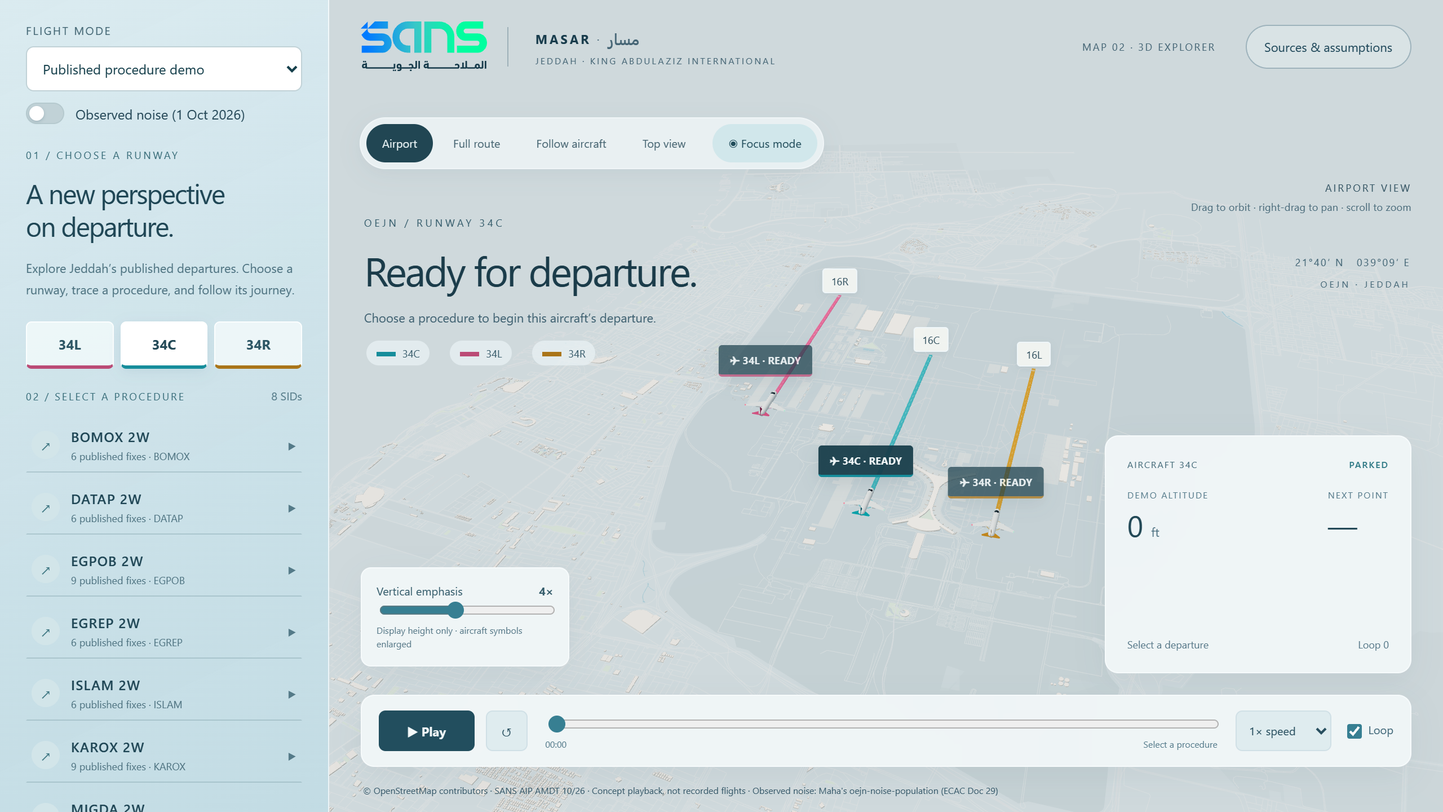
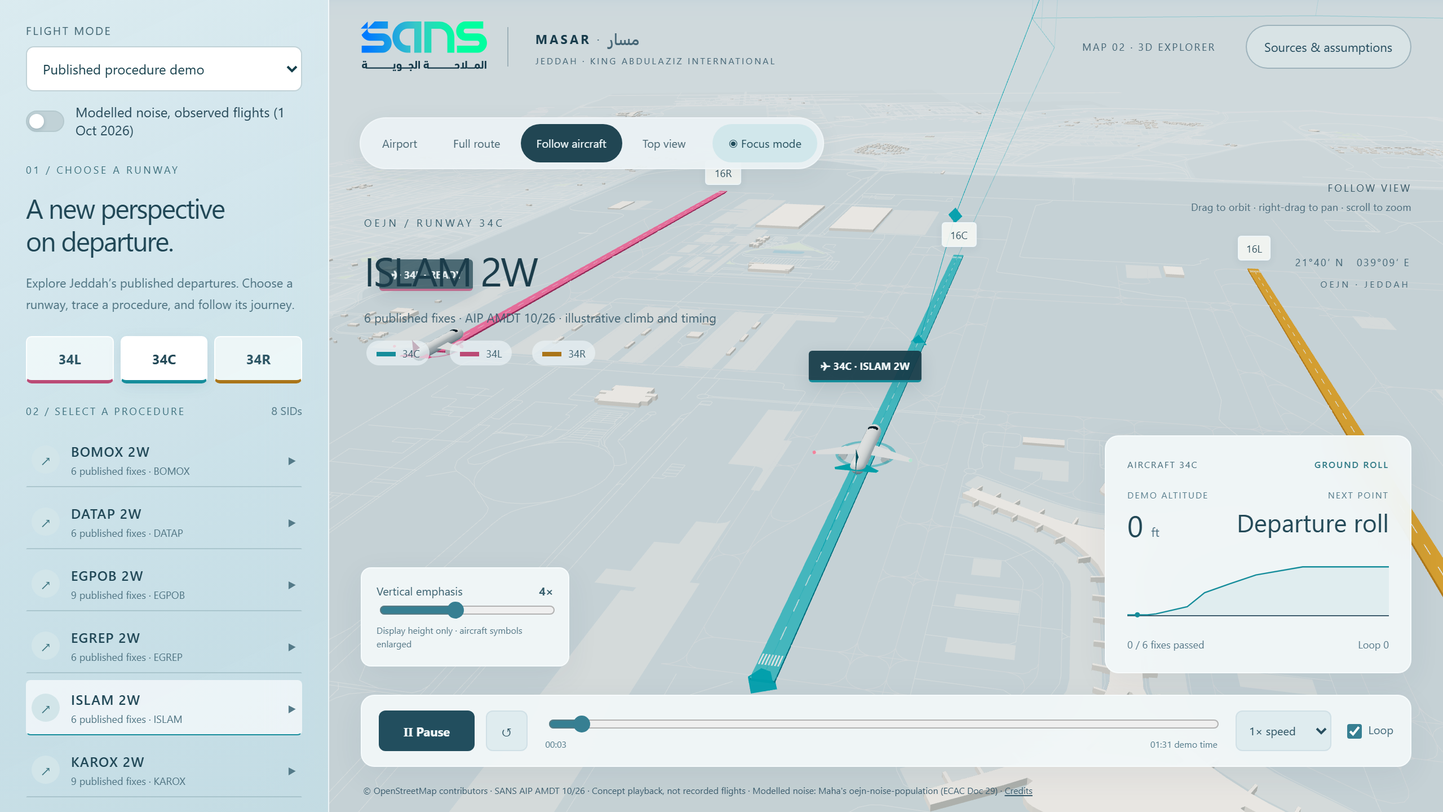
Map 2 demo cleanup: Scenario playback, public mode menu, QA fixes
Modes
- Recorded flights is offered only on a local server that has the A2
  manifest; the public site never requests /observed-data/ (no 404).
- The page opens in Scenario (what-if) on 34C / ISLAM 2W / A320.
- Scenario playback from the saved profile points: Play/Pause, Restart,
  speed, aircraft on the track at its altitude, live time, altitude,
  fuel and CO2 (fuel grows with distance), a moving dot on the climb
  chart. It ends on the saved totals and resets on a new selection.

Fixes from the QA walk
- Phone: noise panel below the camera buttons (starts minimised), so
  Sources and the top controls stay reachable; climb card shown,
  collapsible; legend in one row at the top.
- 1366x768: open noise legend fits above the flight card.
- Flight card headings spaced; "1 departure" singular.
- Sources dialog closes on an outside click; one label in all modes.
- Clicking a demo SID row starts it, as its label says.
- Scenario place labels no longer overlap (lower priority hidden).

Wording and context
- "Modelled noise, observed flights (1 Oct 2026)" in toggle, footer,
  Sources and README.
- One line per scenario on where it splits from routes with the same
  footprint (fix sequences from data.json, i.e. A1), and for EGPOB 2W /
  RIBAM 2W on 34C why fuel and time are about double.
- Rest of the published SID drawn dashed beyond the 10,000 ft point.

Tests: Node check that the final counters equal the saved totals for
[…]

diff --git a/map-2/index.html b/map-2/index.html
@@ -1,9 +1,9 @@
-<!doctype html><html lang="en"><head><meta charset="utf-8"><meta name="viewport" content="width=device-width,initial-scale=1"><title>Masar · مسار</title><link rel="stylesheet" href="studio.css?v=7"><link rel="stylesheet" href="observed.css"><link rel="stylesheet" href="scenario.css?v=3"><link rel="stylesheet" href="noise-layer.css?v=1"><script type="importmap">{"imports":{"three":"./vendor/three.module.js"}}</script></head>
+<!doctype html><html lang="en"><head><meta charset="utf-8"><meta name="viewport" content="width=device-width,initial-scale=1"><title>Masar · مسار</title><link rel="stylesheet" href="studio.css?v=8"><link rel="stylesheet" href="observed.css?v=2"><link rel="stylesheet" href="scenario.css?v=4"><link rel="stylesheet" href="noise-layer.css?v=2"><script type="importmap">{"imports":{"three":"./vendor/three.module.js"}}</script></head>
 <body>
 <main><aside class="sidebar"><div class="section-head"><small>01 / CHOOSE A RUNWAY</small><h1>A new perspective<br>on departure.</h1><p>Explore Jeddah’s published departures. Choose a runway, trace a procedure, and follow its journey.</p></div><div id="runways" class="runways" role="tablist" aria-label="Runway"></div><div class="procedure-heading"><small>02 / SELECT A PROCEDURE</small><span id="count">8 SIDs</span></div><div id="procedures" class="procedures"></div><div class="fleet"><div class="procedure-heading"><small>THREE AIRCRAFT · INDEPENDENT PLAYBACK</small></div><div id="fleet"></div><button id="pause-all" class="text-button">Pause all aircraft</button></div><div class="sidebar-note"><span class="dot"></span> Published fixes · illustrative flight motion</div></aside>
-<section id="viewport" aria-label="Interactive 3D airport and departure map"><header><div class="brand"><img class="sans-logo" src="sans-logo-light.svg" alt="SANS — Saudi Air Navigation Services"><div><b>MASAR <span>· <span class="brand-ar" lang="ar" dir="rtl">مسار</span></span></b><small>JEDDAH · KING ABDULAZIZ INTERNATIONAL</small></div></div><div class="header-right"><span class="pill">MAP 02 · 3D EXPLORER</span><button id="sources">Sources & assumptions</button></div></header><div id="canvas-host"></div><div id="labels"></div><div class="view-controls"><button id="airport" class="active">Airport</button><button id="route-view">Full route</button><button id="follow">Follow aircraft</button><button id="top-view">Top view</button><button id="focus" title="Close orbit with presentation captions">◉ Focus mode</button></div><div class="focus-tools"><label>ORBIT <select id="focus-subject" aria-label="Focus orbit subject"><option value="aircraft">Aircraft</option><option value="airport">Airport</option></select></label><button id="edit-caption">Edit caption</button><button id="exit-focus">Exit focus ↗ <kbd>Esc</kbd></button></div><div class="focus-caption"><small id="focus-eyebrow">JEDDAH / DEPARTURE STUDY</small><h2 id="focus-title">The next horizon.</h2><p id="focus-copy">A closer look at the journey.</p><span id="focus-progress"></span></div><div class="map-coordinate">21°40′ N &nbsp; 039°09′ E <span>OEJN · JEDDAH</span></div><div class="view-guide"><span id="camera-mode">AIRPORT VIEW</span><small>Drag to orbit · right-drag to pan · scroll to zoom</small></div><div class="scene-title"><small id="runway-caption">OEJN / THREE RUNWAYS</small><h2 id="route-caption">Ready for departure.</h2><p id="route-description">Three aircraft at their runway thresholds.<br>Select a procedure to begin.</p></div><div class="legend"><span><i style="background:#168d9b"></i>34C</span><span><i style="background:#bb4b76"></i>34L</span><span><i style="background:#aa7519"></i>34R</span></div><div id="loading">Preparing airport geometry…</div><div class="altitude-control"><label for="height">Vertical emphasis <b id="height-label">4×</b></label><input id="height" type="range" min="1" max="8" step="1" value="4"><small>Display height only · aircraft symbols enlarged</small></div><div class="flight-card"><div class="card-heading"><span id="flight-id">AIRCRAFT 34C</span><b id="phase">PARKED</b></div><div class="card-metrics"><div><small>DEMO ALTITUDE</small><strong id="altitude">0 <em>ft</em></strong></div><div><small>NEXT POINT</small><strong id="next-point">—</strong></div></div><svg id="profile" viewBox="0 0 300 70" aria-label="Illustrative altitude profile"></svg><div class="card-foot"><span id="fix-progress">Select a departure</span><span id="loop-count">Loop 0</span></div></div><div class="transport"><button id="play" class="primary" aria-label="Play or pause selected aircraft">▶ Play</button><button id="restart" aria-label="Restart selected aircraft">↺</button><div class="timeline"><input id="scrub" type="range" min="0" max="1000" value="0" aria-label="Flight progress"><div><span id="elapsed">00:00</span><span id="duration">Select a procedure</span></div></div><select id="speed" aria-label="Animation speed"><option value="0.5">0.5× speed</option><option value="1" selected>1× speed</option><option value="2">2× speed</option><option value="4">4× speed</option></select><label class="loop-toggle"><input id="loop" type="checkbox" checked> Loop</label></div><div class="attribution"><span id="attribution-text">© OpenStreetMap contributors · SANS AIP AMDT 10/26 · Concept playback, not recorded flights</span><span class="attribution-noise"> · Observed noise: Maha's oejn-noise-population (ECAC Doc 29)</span><span class="attribution-credits"> · <a href="https://github.com/M-AlGhazali/Research-and-Innovation-department-SANS-project/blob/main/CREDITS.md" target="_blank" rel="noopener">Credits</a></span></div><div id="tooltip"></div></section></main>
-<dialog id="caption-dialog"><button id="close-caption" class="close" aria-label="Close caption editor">×</button><small>PRESENTATION CAPTION</small><h2>Tell the departure story.</h2><p>The procedure name updates automatically. Add your own headline and supporting words, or leave these blank to use the live flight captions.</p><label class="caption-field">Headline<input id="caption-title-input" maxlength="72" placeholder="Use procedure name"></label><label class="caption-field">Supporting words<textarea id="caption-copy-input" maxlength="180" rows="3" placeholder="Use live departure description"></textarea></label><button id="save-caption">Apply caption</button><button id="reset-caption">Use live captions</button></dialog><dialog id="source-dialog"><button id="close-sources" class="close" aria-label="Close sources">×</button><small>DATA & INTERPRETATION</small><h2>What you are looking at</h2><p>The ground features come from Map 1's GeoPackage. Runway thresholds and width references come from SANS AIP AD 2.12. All 24 SID sequences and 50 fix coordinates were transcribed from the six retained AIP tabulation pages dated 17 September 2026.</p><h3>Published vs illustrated</h3><p>Fix positions, leg order and displayed restrictions are published data. The runway roll point, take-off position, climb between fixes, animation speed and aircraft are illustrative. Straight connectors visit the fixes but do not reconstruct CF/TF path behaviour, fly-over turns, ATC vectors or aircraft dynamics.</p><p>Ground is flat. Buildings use actual footprints with illustrative 12 m / 20 m heights; no surveyed terrain or building elevations are claimed. Vertical emphasis changes the display, not the altitude readout. Flight levels retain their original labels; nominal hundreds of feet are used for the animation without a weather-dependent conversion.</p><h3>Source issues retained</h3><p>MIGDA 3X: JN274 is absent from the 34L coordinate list; its coordinate is cross-referenced from the same-amendment 34C/34R lists. EGREP 2W: the canonical A1 reference places the 13,000 ft upper restriction at JN520. The earlier map transcription has been corrected.</p><h3>Scenario (what-if) mode</h3><p>Scenario mode shows simulated departures on published SIDs. Every number in it is modelled, none is measured. The noise and population model is Maha's <a href="https://github.com/M40aha/oejn-noise-population" target="_blank" rel="noopener">oejn-noise-population</a> (ECAC Doc 29, WorldPop). Fuel comes from OpenAP, with Hala's <a href="https://github.com/Hala-Alali/OEJN_Aircraft_Fuel_Weather" target="_blank" rel="noopener">fuel and weather work</a> as a reference. Recorded-flight mode uses Khalid's A2 pipeline, and the procedures come from the A1 dataset (SANS AIP AMDT 10/26).</p><h3>Observed noise (1 Oct 2026)</h3><p>The optional Observed noise layer shows Lden, Lnight and N70 calculated from the departures observed on 1 October 2026, using ECAC Doc 29 and Maha's noise model (<a href="https://github.com/M40aha/oejn-noise-population" target="_blank" rel="noopener">github.com/M40aha/oejn-noise-population</a>). Only aggregated grids and statistics are used, with no flight tracks. Aircraft groups with fewer than 3 flights are not shown.</p><div id="source-links"></div><p class="muted">This is an exploration prototype. Local recorded-flight playback uses Wingbits observations when available. SID scores describe geometric agreement, not assigned clearances. Fuel and capacity models are not connected in the demo and recorded modes. Modelled fuel and noise appear only in Scenario mode. The separate Observed noise layer is calculated from the 1 October 2026 departures and is not linked to the playback.</p></dialog>
-<script type="module" src="studio.js?v=13"></script></body></html>
+<section id="viewport" aria-label="Interactive 3D airport and departure map"><header><div class="brand"><img class="sans-logo" src="sans-logo-light.svg" alt="SANS — Saudi Air Navigation Services"><div><b>MASAR <span>· <span class="brand-ar" lang="ar" dir="rtl">مسار</span></span></b><small>JEDDAH · KING ABDULAZIZ INTERNATIONAL</small></div></div><div class="header-right"><span class="pill">MAP 02 · 3D EXPLORER</span><button id="sources">Sources & assumptions</button></div></header><div id="canvas-host"></div><div id="labels"></div><div class="view-controls"><button id="airport" class="active">Airport</button><button id="route-view">Full route</button><button id="follow">Follow aircraft</button><button id="top-view">Top view</button><button id="focus" title="Close orbit with presentation captions">◉ Focus mode</button></div><div class="focus-tools"><label>ORBIT <select id="focus-subject" aria-label="Focus orbit subject"><option value="aircraft">Aircraft</option><option value="airport">Airport</option></select></label><button id="edit-caption">Edit caption</button><button id="exit-focus">Exit focus ↗ <kbd>Esc</kbd></button></div><div class="focus-caption"><small id="focus-eyebrow">JEDDAH / DEPARTURE STUDY</small><h2 id="focus-title">The next horizon.</h2><p id="focus-copy">A closer look at the journey.</p><span id="focus-progress"></span></div><div class="map-coordinate">21°40′ N &nbsp; 039°09′ E <span>OEJN · JEDDAH</span></div><div class="view-guide"><span id="camera-mode">AIRPORT VIEW</span><small>Drag to orbit · right-drag to pan · scroll to zoom</small></div><div class="scene-title"><small id="runway-caption">OEJN / THREE RUNWAYS</small><h2 id="route-caption">Ready for departure.</h2><p id="route-description">Three aircraft at their runway thresholds.<br>Select a procedure to begin.</p></div><div class="legend"><span><i style="background:#168d9b"></i>34C</span><span><i style="background:#bb4b76"></i>34L</span><span><i style="background:#aa7519"></i>34R</span></div><div id="loading">Preparing airport geometry…</div><div class="altitude-control"><label for="height">Vertical emphasis <b id="height-label">4×</b></label><input id="height" type="range" min="1" max="8" step="1" value="4"><small>Display height only · aircraft symbols enlarged</small></div><div class="flight-card"><div class="card-heading"><span id="flight-id">AIRCRAFT 34C</span><b id="phase">PARKED</b></div><div class="card-metrics"><div><small>DEMO ALTITUDE</small><strong id="altitude">0 <em>ft</em></strong></div><div><small>NEXT POINT</small><strong id="next-point">—</strong></div></div><svg id="profile" viewBox="0 0 300 70" aria-label="Illustrative altitude profile"></svg><div class="card-foot"><span id="fix-progress">Select a departure</span><span id="loop-count">Loop 0</span></div></div><div class="transport"><button id="play" class="primary" aria-label="Play or pause selected aircraft">▶ Play</button><button id="restart" aria-label="Restart selected aircraft">↺</button><div class="timeline"><input id="scrub" type="range" min="0" max="1000" value="0" aria-label="Flight progress"><div><span id="elapsed">00:00</span><span id="duration">Select a procedure</span></div></div><select id="speed" aria-label="Animation speed"><option value="0.5">0.5× speed</option><option value="1" selected>1× speed</option><option value="2">2× speed</option><option value="4">4× speed</option></select><label class="loop-toggle"><input id="loop" type="checkbox" checked> Loop</label></div><div class="attribution"><span id="attribution-text">© OpenStreetMap contributors · SANS AIP AMDT 10/26 · Concept playback, not recorded flights</span><span class="attribution-noise"> · Modelled noise: Maha's oejn-noise-population (ECAC Doc 29)</span><span class="attribution-credits"> · <a href="https://github.com/M-AlGhazali/Research-and-Innovation-department-SANS-project/blob/main/CREDITS.md" target="_blank" rel="noopener">Credits</a></span></div><div id="tooltip"></div></section></main>
+<dialog id="caption-dialog"><button id="close-caption" class="close" aria-label="Close caption editor">×</button><small>PRESENTATION CAPTION</small><h2>Tell the departure story.</h2><p>The procedure name updates automatically. Add your own headline and supporting words, or leave these blank to use the live flight captions.</p><label class="caption-field">Headline<input id="caption-title-input" maxlength="72" placeholder="Use procedure name"></label><label class="caption-field">Supporting words<textarea id="caption-copy-input" maxlength="180" rows="3" placeholder="Use live departure description"></textarea></label><button id="save-caption">Apply caption</button><button id="reset-caption">Use live captions</button></dialog><dialog id="source-dialog"><button id="close-sources" class="close" aria-label="Close sources">×</button><small>DATA & INTERPRETATION</small><h2>What you are looking at</h2><p>The ground features come from Map 1's GeoPackage. Runway thresholds and width references come from SANS AIP AD 2.12. All 24 SID sequences and 50 fix coordinates were transcribed from the six retained AIP tabulation pages dated 17 September 2026.</p><h3>Published vs illustrated</h3><p>Fix positions, leg order and displayed restrictions are published data. The runway roll point, take-off position, climb between fixes, animation speed and aircraft are illustrative. Straight connectors visit the fixes but do not reconstruct CF/TF path behaviour, fly-over turns, ATC vectors or aircraft dynamics.</p><p>Ground is flat. Buildings use actual footprints with illustrative 12 m / 20 m heights; no surveyed terrain or building elevations are claimed. Vertical emphasis changes the display, not the altitude readout. Flight levels retain their original labels; nominal hundreds of feet are used for the animation without a weather-dependent conversion.</p><h3>Source issues retained</h3><p>MIGDA 3X: JN274 is absent from the 34L coordinate list; its coordinate is cross-referenced from the same-amendment 34C/34R lists. EGREP 2W: the canonical A1 reference places the 13,000 ft upper restriction at JN520. The earlier map transcription has been corrected.</p><h3>Scenario (what-if) mode</h3><p>Scenario mode shows simulated departures on published SIDs. Every number in it is modelled, none is measured. The noise and population model is Maha's <a href="https://github.com/M40aha/oejn-noise-population" target="_blank" rel="noopener">oejn-noise-population</a> (ECAC Doc 29, WorldPop). Fuel comes from OpenAP, with Hala's <a href="https://github.com/Hala-Alali/OEJN_Aircraft_Fuel_Weather" target="_blank" rel="noopener">fuel and weather work</a> as a reference. Recorded-flight mode uses Khalid's A2 pipeline, and the procedures come from the A1 dataset (SANS AIP AMDT 10/26).</p><h3>Modelled noise, observed flights (1 Oct 2026)</h3><p>The optional noise layer is modelled, not measured: it shows Lden, Lnight and N70 calculated from the departures observed on 1 October 2026, using ECAC Doc 29 and Maha's noise model (<a href="https://github.com/M40aha/oejn-noise-population" target="_blank" rel="noopener">github.com/M40aha/oejn-noise-population</a>). Only aggregated grids and statistics are used, with no flight tracks. Aircraft groups with fewer than 3 flights are not shown.</p><div id="source-links"></div><p class="muted">This is an exploration prototype. Local recorded-flight playback uses Wingbits observations when available. SID scores describe geometric agreement, not assigned clearances. Fuel and capacity models are not connected in the demo and recorded modes. Modelled fuel and noise appear only in Scenario mode. The separate noise layer is modelled from the 1 October 2026 departures and is not linked to the playback.</p></dialog>
+<script type="module" src="studio.js?v=14"></script></body></html>
 
 
 

diff --git a/map-2/studio.js b/map-2/studio.js
@@ -1,9 +1,9 @@
 import * as THREE from 'three';
 import {OrbitControls} from './vendor/OrbitControls.js';
 import {buildFlight,sampleFlight,advance,constraintLabel} from './flight-model.mjs';
-import {mountObserved} from './observed-layer.mjs';
-import {mountScenario} from './scenario-layer.mjs?v=3';
-import {mountNoise,noiseMessage} from './noise-layer.mjs?v=2';
+import {mountObserved} from './observed-layer.mjs?v=2';
+import {mountScenario} from './scenario-layer.mjs?v=4';
+import {mountNoise,noiseMessage} from './noise-layer.mjs?v=3';
 
 const $=id=>document.getElementById(id),host=$('canvas-host'),viewport=$('viewport');
 let data,scene,camera,renderer,controls,selected='34C',vertical=4,speed=1,cameraMode='airport',last=0,ready=false;
@@ -50,9 +50,9 @@ async function loadNoise(){
    const payload=await response.json();
    noise.api=mountNoise({scene,data,viewport,camera,vertical:()=>vertical,noise:payload});noise.loaded=true;noise.api.setMetric(noise.metric);
   }catch(error){
-   noise.error='Observed noise data could not be loaded.';
+   noise.error='Noise data could not be loaded.';
    if(!noise.errorEl)noise.errorEl=noiseMessage(viewport,noise.error);
-   console.warn('Observed noise layer:',error);
+   console.warn('Noise layer:',error);
   }finally{noise.loading=null}
  })();
  return noise.loading;
@@ -62,11 +62,12 @@ async function setNoiseVisible(on){
  if(noise.visible&&!noise.api)await loadNoise();
  syncNoise();
 }
+const NOISE_LABEL='Modelled noise, observed flights (1 Oct 2026)';
 function mountNoiseToggle(){
  const label=document.createElement('label');label.className='noise-toggle';
- const input=document.createElement('input');input.type='checkbox';input.setAttribute('aria-label','Observed noise (1 Oct 2026)');
+ const input=document.createElement('input');input.type='checkbox';input.setAttribute('aria-label',NOISE_LABEL);
  const sw=document.createElement('span');sw.className='noise-switch';sw.setAttribute('aria-hidden','true');
- const text=document.createElement('span');text.textContent='Observed noise (1 Oct 2026)';
+ const text=document.createElement('span');text.textContent=NOISE_LABEL;
  label.append(input,sw,text);document.querySelector('.observed-mode').after(label);
  input.onchange=()=>setNoiseVisible(input.checked);noise.toggle=label;
 }
@@ -157,11 +158,12 @@ function selectRunway(id){selected=id;document.documentElement.style.setProperty
 function chooseProcedure(route){
  const s=states[route.runway];s.flight=buildFlight(route,s.runway,data.fixes);s.elapsed=0;s.loops=0;s.playing=false;s.sample=sampleFlight(s.flight,0);s.plane.position.copy(toV(s.runway.start));buildRouteVisual(s);selectRunway(route.runway);if(cameraMode==='route')setCameraMode('route');updateUI();
 }
+function startPlaying(s){if(s.elapsed>=s.flight.duration)s.elapsed=0;s.playing=true;setCameraMode('follow');updateUI()}
 function renderSidebar(){
  $('runways').replaceChildren();for(const id of ['34L','34C','34R']){const b=document.createElement('button');b.className='runway-tab'+(selected===id?' active':'');b.textContent=id;b.style.setProperty('--runway',states[id].runway.color);b.setAttribute('role','tab');b.setAttribute('aria-selected',String(selected===id));b.onclick=()=>selectRunway(id);$('runways').append(b)}
  $('procedures').replaceChildren();for(const route of data.routes.filter(r=>r.runway===selected)){
   const b=document.createElement('button');b.className='procedure'+(states[selected].flight?.route.id===route.id?' active':'');b.setAttribute('aria-label',`Start ${route.name} from ${route.runway}`);
-  const arrow=document.createElement('span');arrow.className='arrow';arrow.textContent='↗';const copy=document.createElement('span');copy.className='copy';const title=document.createElement('b');title.textContent=route.name;const sub=document.createElement('small');sub.textContent=`${route.legs.length} published fixes · ${route.legs.at(-1).fix}`;copy.append(title,sub);const tag=document.createElement('span');tag.className='tag';tag.textContent=route.warning?'⚑':'▶';if(route.warning){tag.classList.add('warning-dot');b.title=route.warning}b.append(arrow,copy,tag);b.onclick=()=>chooseProcedure(route);$('procedures').append(b);
+  const arrow=document.createElement('span');arrow.className='arrow';arrow.textContent='↗';const copy=document.createElement('span');copy.className='copy';const title=document.createElement('b');title.textContent=route.name;const sub=document.createElement('small');sub.textContent=`${route.legs.length} published fixes · ${route.legs.at(-1).fix}`;copy.append(title,sub);const tag=document.createElement('span');tag.className='tag';tag.textContent=route.warning?'⚑':'▶';if(route.warning){tag.classList.add('warning-dot');b.title=route.warning}b.append(arrow,copy,tag);b.onclick=()=>{chooseProcedure(route);startPlaying(states[route.runway])};$('procedures').append(b);
  }
  $('fleet').replaceChildren();for(const id of ['34L','34C','34R']){const row=document.createElement('div');row.className='fleet-row';row.style.setProperty('--runway',states[id].runway.color);const dot=document.createElement('i'),name=document.createElement('b'),status=document.createElement('span');name.textContent=id;status.id='fleet-'+id;row.append(dot,name,status);$('fleet').append(row)}
 }
@@ -232,13 +234,14 @@ function wireControls(){
  $('reset-caption').onclick=()=>{customTitle='';customCopy='';updateFocusCaption();$('caption-dialog').close()};
  document.addEventListener('keydown',e=>{if(e.key==='Escape'&&cameraMode==='focus'&&!$('caption-dialog').open&&!$('source-dialog').open)setCameraMode('airport')});
  $('airport').onclick=()=>setCameraMode('airport');$('route-view').onclick=()=>setCameraMode('route');$('follow').onclick=()=>setCameraMode('follow');$('top-view').onclick=()=>setCameraMode('top');
- $('play').onclick=()=>{let s=states[selected];if(!s.flight){chooseProcedure(data.routes.find(r=>r.runway===selected));s=states[selected]}if(s.elapsed>=s.flight.duration)s.elapsed=0;s.playing=!s.playing;if(s.playing)setCameraMode('follow');updateUI()};
+ $('play').onclick=()=>{let s=states[selected];if(!s.flight){chooseProcedure(data.routes.find(r=>r.runway===selected));s=states[selected]}if(s.playing){s.playing=false;updateUI()}else startPlaying(s)};
  $('restart').onclick=()=>{const s=states[selected];s.elapsed=0;s.loops=0;s.playing=false;if(s.flight)s.sample=sampleFlight(s.flight,0);updateUI()};
  $('pause-all').onclick=()=>{for(const s of Object.values(states))s.playing=false;updateUI()};
  $('speed').onchange=e=>speed=Number(e.target.value);$('loop').onchange=e=>states[selected].loop=e.target.checked;
  $('scrub').oninput=e=>{const s=states[selected];if(s.flight){s.elapsed=Number(e.target.value)/1000*s.flight.duration;s.playing=false}};
  $('height').oninput=e=>{vertical=Number(e.target.value);$('height-label').textContent=vertical+'×';for(const s of Object.values(states))if(s.flight)buildRouteVisual(s);if(cameraMode==='route')setCameraMode('route')};
  $('sources').onclick=()=>$('source-dialog').showModal();$('close-sources').onclick=()=>$('source-dialog').close();
+ $('source-dialog').addEventListener('click',e=>{const r=e.currentTarget.getBoundingClientRect();if(e.clientX<r.left||e.clientX>r.right||e.clientY<r.top||e.clientY>r.bottom)e.currentTarget.close()});
  for(const rw of ['34C','34L','34R'])for(const n of [1,2]){const a=document.createElement('a');a.href=`https://github.com/M-AlGhazali/Research-and-Innovation-department-SANS-project/blob/main/sources/map-2/${rw}-table-${n}.pdf`;a.target='_blank';a.rel='noopener';a.textContent=`${rw} · source ${n}`;$('source-links').append(a)}
  const observer=new ResizeObserver(()=>{const w=host.clientWidth,h=host.clientHeight;renderer.setSize(w,h);camera.aspect=w/h;camera.updateProjectionMatrix()});observer.observe(host);
  controls.addEventListener('start',()=>{if(cameraMode==='follow'||cameraMode==='focus')setCameraMode('free')});
@@ -257,8 +260,10 @@ async function init(){
   controls=new OrbitControls(camera,renderer.domElement);controls.enableDamping=true;controls.dampingFactor=.08;controls.maxPolarAngle=Math.PI/2-.025;controls.minDistance=.8;controls.maxDistance=350;
   scene.add(new THREE.HemisphereLight('#ffffff','#6c8590',2.0));const light=new THREE.DirectionalLight('#fff5e6',2.4);light.position.set(-10,25,10);scene.add(light);
   buildGround();buildRunways();wireControls();selectRunway('34C');setCameraMode('airport');
-   observed=mountObserved({scene,data,aircraft,host,vertical:()=>vertical,camera,controls,onFlightMode:value=>{flightMode=value;scenario?.setMode(value==='scenario');syncNoise()},onMode:enabled=>{setAttribution(enabled?'© OpenStreetMap contributors · Wingbits recorded reports · geometric candidates, clearance unknown':'© OpenStreetMap contributors · SANS AIP AMDT 10/26 · Concept playback, not recorded flights');hideDemo(enabled);$('sources').textContent=enabled?'Sources & interpretation':'Sources & assumptions'}});
-  scenario=mountScenario({scene,data,host,viewport,camera,controls,vertical:()=>vertical,onMode:enabled=>{setAttribution('© OpenStreetMap contributors · SANS AIP AMDT 10/26 · Simulated departures, every number modelled');hideDemo(enabled);$('sources').textContent='Sources & interpretation'}});mountNoiseToggle();$('loading').style.display='none';ready=true;
+   observed=mountObserved({scene,data,aircraft,host,vertical:()=>vertical,camera,controls,onFlightMode:value=>{flightMode=value;scenario?.setMode(value==='scenario');syncNoise()},onMode:enabled=>{setAttribution(enabled?'© OpenStreetMap contributors · Wingbits recorded reports · geometric candidates, clearance unknown':'© OpenStreetMap contributors · SANS AIP AMDT 10/26 · Concept playback, not recorded flights');hideDemo(enabled)}});
+  scenario=mountScenario({scene,data,host,viewport,camera,controls,aircraft,vertical:()=>vertical,onMode:enabled=>{setAttribution('© OpenStreetMap contributors · SANS AIP AMDT 10/26 · Simulated departures, every number modelled');hideDemo(enabled)}});mountNoiseToggle();$('loading').style.display='none';ready=true;
+  // open in Scenario (what-if) mode; its default selection is 34C / ISLAM 2W / A320
+  {const m=document.querySelector('.observed-mode select');m.value='scenario';m.onchange()}
   window.map2={observed,noise:{setVisible:setNoiseVisible,setMetric:name=>{noise.metric=name;noise.api?.setMetric(name)},getState:()=>({visible:noise.visible,metric:noise.api?.getMetric()||noise.metric,loaded:noise.loaded,error:noise.error})},scenario:{select:(runway,sid,aircraft,perDay)=>scenario.select(runway,sid,aircraft,perDay),getState:()=>scenario.getState(),setMode:v=>{const m=document.querySelector('.observed-mode select');m.value=v?'scenario':'illustrative';m.onchange()}},getState:()=>Object.fromEntries(Object.entries(states).map(([id,s])=>[id,{procedure:s.flight?.route.name||null,playing:s.playing,elapsed:s.elapsed,duration:s.flight?.duration||0,loops:s.loops,next:s.sample?.next,position:s.plane.position.toArray()}])),getCamera:()=>({mode:cameraMode,subject:focusSubject,position:camera.position.toArray(),target:controls.target.toArray()}),getCounts:()=>({aircraft:Object.keys(states).length,procedures:data.routes.length,fixes:Object.keys(data.fixes).length}),selectProcedure:name=>{const route=data.routes.find(r=>r.name===name);if(!route)throw new Error('Unknown procedure');chooseProcedure(route)}};
   requestAnimationFrame(animate);
  }catch(error){$('loading').classList.add('error');$('loading').textContent='Unable to open the 3D scene. Use “Start Map 2.cmd” and a browser with WebGL enabled. '+error.message;console.error(error)}

diff --git a/map-2/scenario.css b/map-2/scenario.css
@@ -16,7 +16,15 @@
 .scenario-mode-active .section-head{margin-bottom:8px}.scenario-mode-active .sidebar{overflow-y:auto}.scenario-mode-active .altitude-control{bottom:44px}.scenario-mode-active .attribution{max-width:50%;font-size:10px}
 @media(max-width:1150px){.scenario-card{width:300px}}
 @media(max-width:760px){.scenario-card{width:250px;right:12px;padding:12px}.scenario-card .card-foot{display:none}.scenario-legend{left:12px;bottom:44px}.scenario-panel{padding:0 0 16px}}
-@media(max-width:600px){.scenario-card{display:none}.scenario-legend{bottom:30px}}
+@media(max-width:600px){.scenario-mode-active .attribution{max-width:none}.scenario-card{left:12px;right:12px;width:auto;bottom:84px;padding:10px 12px}.scenario-card-sub{margin:4px 0}.scenario-legend{bottom:auto;top:112px;left:12px;flex-direction:row;gap:8px;padding:6px 8px}.scenario-legend small{display:none}}
 
 /* keep the footer credit readable above the scenario place labels */
 .scenario-mode-active .attribution{z-index:3;background:#e8f1f3d9;border-radius:5px;padding:2px 7px}
+/* playback: live counters, transport, chart dot, collapse button */
+.scenario-card .card-heading{display:flex;align-items:center;gap:8px}.scenario-card .card-heading span{flex:1}
+.scenario-collapse{width:22px;height:20px;padding:0;border:1px solid #b5c9ce;background:#fff;color:#234957;border-radius:5px;font-weight:700;line-height:1;cursor:pointer}
+.scenario-card.collapsed .scenario-profile,.scenario-card.collapsed .card-foot{display:none}
+.scenario-live{display:grid;grid-template-columns:repeat(4,1fr);gap:6px;margin:2px 0 8px}.scenario-live small{display:block;font-size:7px;letter-spacing:.07em;color:#547a88}.scenario-live b{display:block;font-size:13px;font-weight:500;color:#234957;font-variant-numeric:tabular-nums;white-space:nowrap}
+.scenario-transport{display:flex;gap:6px;align-items:center;margin-top:8px}.scenario-transport button{border:1px solid #b5c9ce;background:#fff;color:#234957;border-radius:6px;padding:6px 10px;font-family:inherit;font-size:11px;font-weight:600;cursor:pointer}.scenario-transport button.primary{background:#234957;border-color:#234957;color:#fff;min-width:74px}.scenario-transport select{margin-left:auto;border:1px solid #b5c9ce;border-radius:6px;padding:5px;background:#fff;color:#234957;font-size:11px}
+.scenario-explain{font-size:11px;line-height:1.5;color:#3d6576;background:#eaf3f4;border-left:3px solid #168d9b;padding:6px 9px;margin:8px 0 0}
+@media(max-height:850px){.scenario-card{padding:13px 15px}.scenario-card .card-foot{display:none}.scenario-card-sub{margin:5px 0 4px}}

diff --git a/map-2/noise-layer.css b/map-2/noise-layer.css
@@ -41,7 +41,11 @@
 .noise-panel.min .noise-seg,.noise-panel.min .noise-body{display:none}
 .noise-panel.min .noise-head small{display:none}
 .noise-panel.min .noise-head::before{content:"NOISE";font-size:9px;font-weight:600;letter-spacing:.1em;color:#386c79;margin-right:4px}
-@media (max-width:760px){.noise-panel{top:auto;bottom:420px;right:12px;width:220px}}
+/* short laptop screens: tighter panel so the open legend fits above the flight card */
+@media (max-height:850px){.noise-panel{top:88px;gap:6px;padding:10px 12px}.noise-bands{gap:2px;margin-top:4px}}
+/* small screens: below the camera buttons, never over the header or the Sources button */
+@media (max-width:760px){.noise-panel{top:118px;right:12px;width:220px}}
+@media (max-width:600px){.noise-panel{top:150px;width:200px}}
 dialog.noise-dialog{background:#fbfcfc;color:#254957;border:1px solid #b5c9ce;border-radius:14px;padding:30px 34px;max-width:860px;width:min(860px,94vw);max-height:88vh;overflow:auto;position:relative;font-family:'Segoe UI',Arial,sans-serif}
 dialog.noise-dialog::backdrop{background:#06141ccc;backdrop-filter:blur(4px)}
 dialog.noise-dialog small{letter-spacing:.14em;color:#386c79;font-size:10px;font-weight:600}

diff --git a/map-2/studio.css b/map-2/studio.css
@@ -64,3 +64,5 @@ main{height:100dvh}
 .brand b .brand-ar{letter-spacing:0;font-family:'Segoe UI',Tahoma,Arial,sans-serif;font-size:1.25em;font-weight:600;line-height:1;vertical-align:-1px;unicode-bidi:isolate}
 .attribution-noise{white-space:nowrap}
 .attribution a{color:inherit;text-decoration:underline;pointer-events:auto}
+/* flight card: keep the two headings apart */
+.card-metrics{gap:14px}.card-metrics small{white-space:nowrap}.card-metrics>div:last-child{text-align:right}.card-metrics #next-point{font-size:22px}

diff --git a/tests/test_map2_browser.py b/tests/test_map2_browser.py
@@ -1,0 +1,124 @@
+"""Map 2 in a real browser: mode menu, default selection, wording and Scenario playback.
+
+Needs Playwright with Chromium (pip install playwright; python -m playwright install chromium); skipped otherwise.
+The page is served from this checkout, either as localhost or under a made-up public host name.
+"""
+import json
+import threading
+from functools import partial
+from http.server import SimpleHTTPRequestHandler, ThreadingHTTPServer
+from pathlib import Path
+
+import pytest
+
+sync_api = pytest.importorskip("playwright.sync_api")
+ROOT = Path(__file__).resolve().parents[1]
+ARGS = ["--use-gl=swiftshader", "--enable-unsafe-swiftshader", "--ignore-gpu-blocklist"]
+TYPES = {".js": "text/javascript", ".mjs": "text/javascript", ".json": "application/json", ".css": "text/css",
+         ".html": "text/html", ".svg": "image/svg+xml", ".geojson": "application/json"}
+
+
+class Handler(SimpleHTTPRequestHandler):
+    extensions_map = {**SimpleHTTPRequestHandler.extensions_map, **TYPES}
+
+    def log_message(self, *args):
+        pass
+
+
+@pytest.fixture(scope="module")
+def server():
+    httpd = ThreadingHTTPServer(("127.0.0.1", 0), partial(Handler, directory=str(ROOT)))
+    threading.Thread(target=httpd.serve_forever, daemon=True).start()
+    yield f"http://127.0.0.1:{httpd.server_port}/map-2/"
+    httpd.shutdown()
+
+
+@pytest.fixture(scope="module")
+def browser():
+    with sync_api.sync_playwright() as pw:
+        try:
+            b = pw.chromium.launch(headless=True, args=ARGS)
+        except Exception as e:  # Chromium not installed
+            pytest.skip(f"Chromium for Playwright is not available: {e}")
+        yield b
+        b.close()
+
+
+def open_map(browser, url, routes=None):
+    page = browser.new_page(viewport={"width": 1600, "height": 900})
+    requests = []
+    page.on("request", lambda r: requests.append(r.url))
+    for pattern, handler in (routes or {}).items():
+        page.route(pattern, handler)
+    page.goto(url)
+    page.wait_for_function("window.map2 && window.map2.scenario.getState().recordId", timeout=60000)
+    return page, requests
+
+
+def modes(page):
+    return page.eval_on_selector("select[aria-label='Flight mode']", "s=>[...s.options].map(o=>o.value)")
+
+
+def test_public_site_hides_recorded_mode_and_never_asks_for_its_data(browser):
+    def from_disk(route):
+        path = route.request.url.split("masar.test/", 1)[1].split("?")[0]
+        file = ROOT / path
+        if file.is_dir():
+            file = file / "index.html"
+        if file.is_file():
+            route.fulfill(path=str(file), content_type=TYPES.get(file.suffix, "application/octet-stream"))
+        else:
+            route.fulfill(status=404, body="")
+    page, requests = open_map(browser, "http://masar.test/map-2/", {"http://masar.test/**": from_disk})
+    page.wait_for_timeout(1000)
+    assert modes(page) == ["illustrative", "scenario"]
+    assert not [u for u in requests if "observed-data" in u]
+    page.close()
+
+
+def test_recorded_mode_appears_when_the_local_dataset_exists(browser, server):
+    manifest = lambda route: route.fulfill(status=200, content_type="application/json", body="{}")
+    page, _ = open_map(browser, server, {"**/observed-data/manifest.json": manifest})
+    page.wait_for_function("document.querySelector('select[aria-label=\"Flight mode\"] option[value=observed]')", timeout=10000)
+    assert modes(page) == ["illustrative", "observed", "scenario"]
+    page.close()
+
+
+def test_opens_in_scenario_mode_with_the_default_selection(browser, server):
+    page, _ = open_map(browser, server)
+    assert page.eval_on_selector("select[aria-label='Flight mode']", "s=>s.value") == "scenario"
+    st = page.evaluate("window.map2.scenario.getState()")
+    assert (st["runway"], st["sid"], st["aircraft"], st["recordId"]) == ("34C", "ISLAM 2W", "A320", "34C_ISLAM2W_A320")
+    assert page.inner_text("#sources") == "Sources & assumptions"
+    page.close()
+
+
+def test_departures_sentence_uses_the_singular_for_one(browser, server):
+    page, _ = open_map(browser, server)
+    slider = page.locator("section.scenario-panel input[aria-label='Departures per day']")
+    sentence = "section.scenario-panel p.scenario-intro >> text=People inside"
+    slider.fill("1")
+    assert "hear about 1 departure like this a day" in page.inner_text(sentence)
+    slider.fill("2")
+    assert "hear about 2 departures like this a day" in page.inner_text(sentence)
+    page.close()
+
+
+def test_playback_ends_on_the_saved_totals_and_resets_on_a_new_selection(browser, server):
+    record = next(s for s in json.loads((ROOT / "map-2/scenarios/index.json").read_text(encoding="utf-8"))["scenarios"]
+                  if s["id"] == "34C_ISLAM2W_A320")
+    page, _ = open_map(browser, server)
+    page.select_option("select[aria-label='Scenario playback speed']", "60")
+    page.click(".scenario-transport button.primary")
+    page.wait_for_function("window.map2.scenario.getState().playback.t>0")
+    page.wait_for_function(f"window.map2.scenario.getState().playback.t>={record['to10k']['time_s']}", timeout=60000)
+    pb = page.evaluate("window.map2.scenario.getState().playback")
+    assert pb["playing"] is False
+    assert pb["fuel"] == f"{round(record['to10k']['fuel_kg']):,} kg"
+    assert pb["co2"] == f"{round(record['to10k']['co2_kg']):,} kg"
+    assert pb["altitude"] == "10,000 ft"
+    page.locator(".scenario-seg button", has_text="B77W").click()
+    page.wait_for_function("window.map2.scenario.getState().recordId==='34C_ISLAM2W_B77W'")
+    pb = page.evaluate("window.map2.scenario.getState().playback")
+    assert pb["t"] == 0 and pb["fuel"] == "0 kg" and pb["playing"] is False
+    page.close()

diff --git a/tests/test_node_suites.py b/tests/test_node_suites.py
@@ -1,4 +1,4 @@
-"""Run the two Node test suites from pytest, so one command (python -m pytest) runs every test in the repo."""
+"""Run the Node test suites from pytest, so one command (python -m pytest) runs every test in the repo."""
 import shutil
 import subprocess
 from pathlib import Path
@@ -8,7 +8,7 @@ import pytest
 ROOT = Path(__file__).resolve().parents[1]
 
 
-@pytest.mark.parametrize("script", ["tests/test-observed-model.mjs", "map-2/test-flight-model.mjs"])
+@pytest.mark.parametrize("script", ["tests/test-observed-model.mjs", "map-2/test-flight-model.mjs", "map-2/test-scenario-playback.mjs"])
 def test_node_suite(script):
     node = shutil.which("node")
     if node is None:

diff --git a/README.md b/README.md
@@ -23,10 +23,10 @@ The raw data for all layers (A1 to A6) was collected by Khalid and lives in his 
 
 ## What Map 2 shows
 
-- **Published procedure demo:** the 16 published SIDs from 34C and 34L in 3D, with an illustrative flight playback.
-- **Scenario (what-if) mode:** pick a runway, SID, aircraft (A320, A20N or B77W) and departures per day, and see modelled fuel and CO₂ to 10,000 ft, time and distance, the climb profile, the LAmax 60 / 65 / 70 dB footprint, the residents inside each contour and the nearest named places, with daily and yearly totals. All 48 combinations are pre-computed from simulated flights by [`tools/scenarios/`](tools/scenarios/README.md): OpenAP for fuel, Maha's Doc 29 model and WorldPop grid for noise and residents.
-- **Observed noise (1 Oct 2026):** Maha's Lden, Lnight and N70 surfaces and results panel, as aggregated grids only (no flight tracks).
-- **Recorded flights:** Khalid's A2 replay of real departures, with Hala's fuel estimate. This mode needs the local A2 output; the recorded data is never published.
+- **Published procedure demo:** the 24 published SIDs from 34L, 34C and 34R in 3D, with an illustrative flight playback.
+- **Scenario (what-if) mode** (the page opens here, on 34C / ISLAM 2W / A320): pick a runway, SID, aircraft (A320, A20N or B77W) and departures per day, and see modelled fuel and CO₂ to 10,000 ft, time and distance, the climb profile, the LAmax 60 / 65 / 70 dB footprint, the residents inside each contour and the nearest named places, with daily and yearly totals. Play flies the departure along its modelled track with live time, altitude, fuel and CO₂ counters. All 48 combinations are pre-computed from simulated flights by [`tools/scenarios/`](tools/scenarios/README.md): OpenAP for fuel, Maha's Doc 29 model and WorldPop grid for noise and residents.
+- **Modelled noise, observed flights (1 Oct 2026):** Maha's Lden, Lnight and N70 surfaces and results panel, as aggregated grids only (no flight tracks).
+- **Recorded flights:** Khalid's A2 replay of real departures, with Hala's fuel estimate. This mode appears in the Flight mode menu only on a local server that has the A2 output; the recorded data is never published.
 
 ## Run the demo
 
@@ -40,7 +40,7 @@ It opens <http://127.0.0.1:8765/map-2/>. On Windows you can double-click `Start 
 
 ## Run the tests
 
-One environment (Python 3.12) and one command for all three parts (A2 and fuel, Scenario files, noise-population) and the two Node suites:
+One environment (Python 3.12) and one command for all three parts (A2 and fuel, Scenario files, noise-population) and the Node suites:
 
 ```
 python -m venv .venv

diff --git a/CREDITS.md b/CREDITS.md
@@ -25,7 +25,7 @@ Thank you, Maha, for the noise and population work behind every noise result.
 
 - A5 aircraft-noise data and A6 population layers, moved here with their history from [M40aha/oejn-noise-population](https://github.com/M40aha/oejn-noise-population) into [`noise-population/`](noise-population).
 - The ECAC Doc 29 noise model that the Masar engine uses for every noise result: the Scenario generator ([`tools/scenarios/`](tools/scenarios)) runs your model in [`noise-population/src/noise/`](noise-population/src/noise) for every contour and resident count.
-- The 3D noise map ([`noise-population/map3d/`](noise-population/map3d)) and the results panel, which Map 2 shows as the "Observed noise" layer.
+- The 3D noise map ([`noise-population/map3d/`](noise-population/map3d)) and the results panel, which Map 2 shows as the "Modelled noise, observed flights" layer.
 
 ### Muhannad AlGhazali ([@M-AlGhazali](https://github.com/M-AlGhazali))
 
